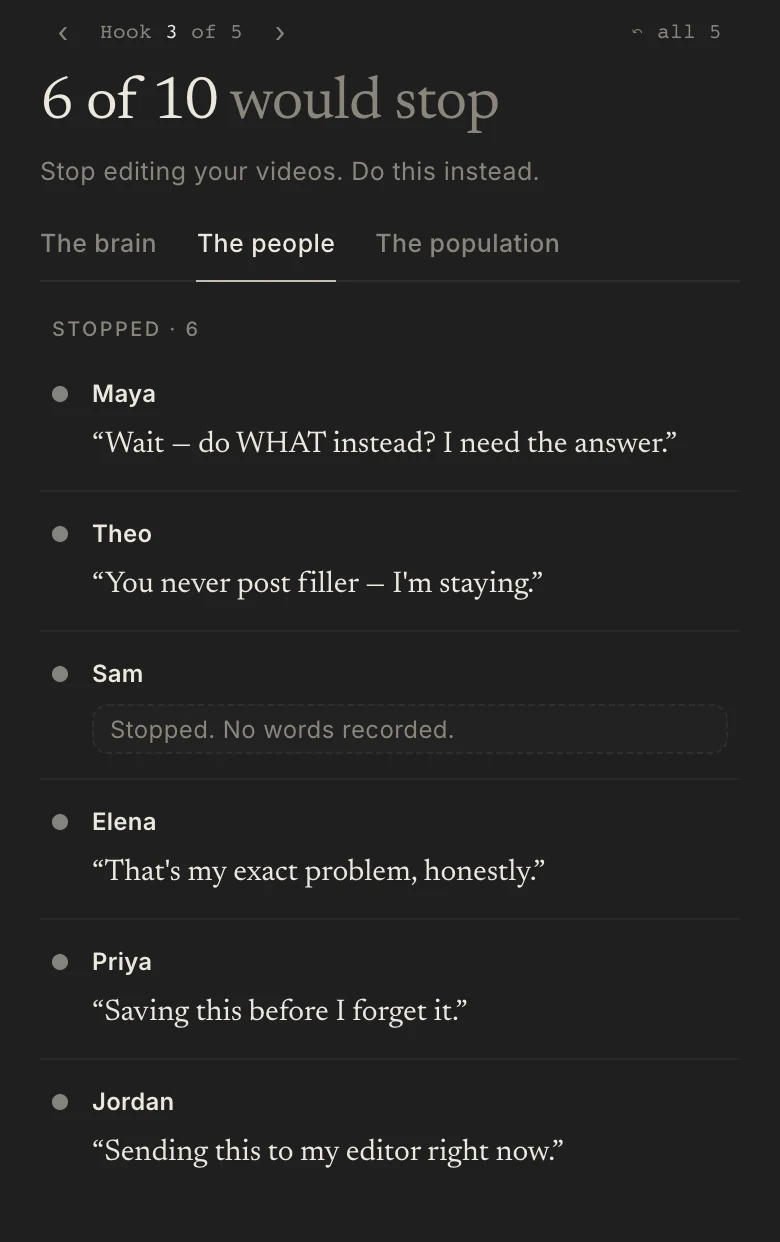
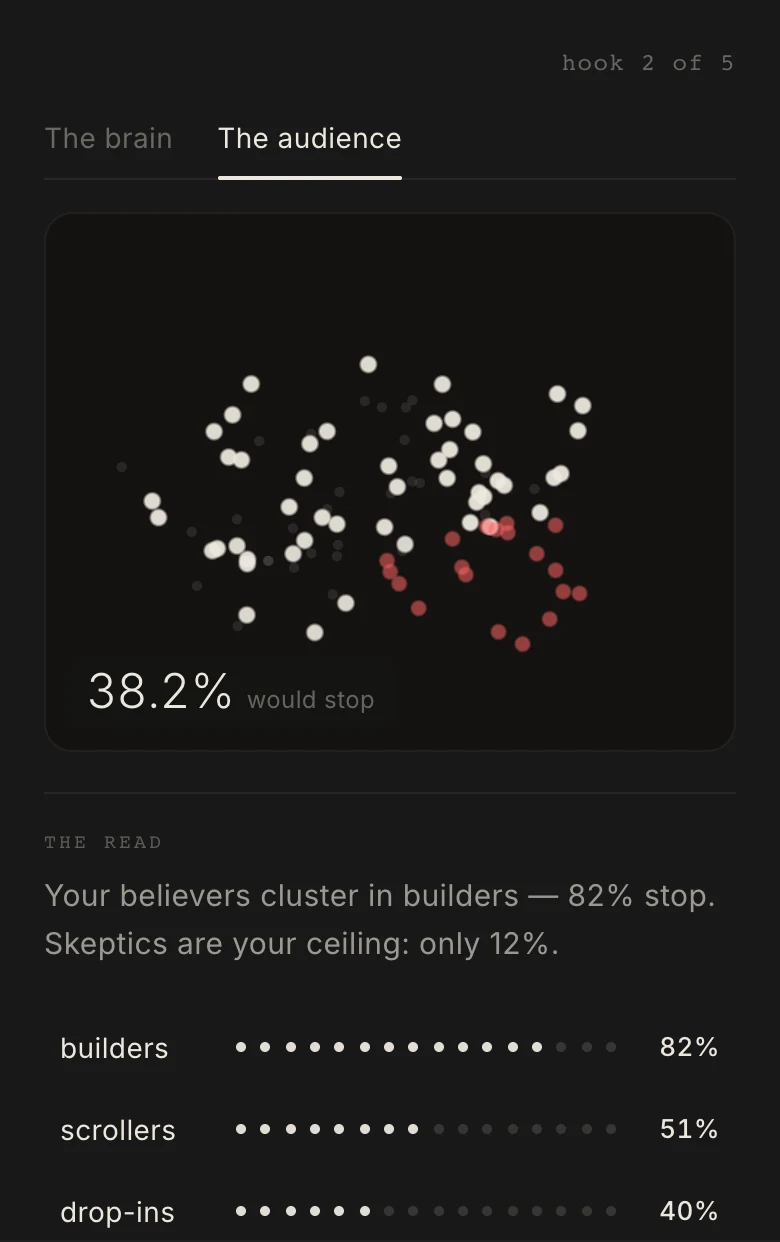
fix(offer): how-it-works photographs the CURRENT room — v2 read replaces the legacy AmbientRoom shot
The step-react stages still mounted the retired legacy AmbientRoom (owner
correction 2026-07-26: render the RUNNING app, not stale references). They now
mount the shipped AmbientDetail on CREATOR_TEMPLATE — audience tab, sheet
presentation in a bounded host — the same fixture the hero window's rail
renders, so shot and hero agree to the digit. Re-captured both webps (37/30 KB,
same intrinsic dims); PREPARE's 'The people' click removed (v2 opens on the
audience tab via initialTab). Step-02 body/caption + alt text rewritten to
describe the new pixels (38.2% would stop, cohort bars). room-fixture.ts is
now unreferenced — left on disk per the walkthrough precedent.

diff --git a/src/components/offer/shots/shot-stages.tsx b/src/components/offer/shots/shot-stages.tsx
@@ -21,15 +21,10 @@
 import { QueryClient, QueryClientProvider } from "@tanstack/react-query";
 import { useState } from "react";
 import { EmbeddedComposer } from "@/components/app/home/embedded-composer";
-import { AmbientRoom } from "@/components/audience-lens/AmbientRoom";
+import { AmbientDetail } from "@/components/audience-lens/v2/AmbientDetail";
+import { CREATOR_TEMPLATE } from "@/components/audience-lens/v2/detail-fixture";
 import { VideoTestCardRenderer } from "@/components/thread/video-test-card-block";
 import { TEST_CARD_FIXTURE } from "@/components/offer/test-card-fixture";
-import {
-  ROOM_CONCEPT,
-  ROOM_FRACTION,
-  ROOM_PERSONAS,
-  ROOM_SIBLINGS,
-} from "@/components/offer/room-fixture";
 
 /**
  * Where the card's "director's fixes" band starts, at the 620px stage width.
@@ -133,18 +128,19 @@ export function ShotStages() {
           <ComposerStage />
         </Stage>
 
-        {/* 02 — react: the shipped room, brain view, auto-playing its read */}
+        {/* 02 — react: the shipped v2 read, audience tab (owner correction
+            2026-07-26: the LEGACY AmbientRoom is a surface the platform no
+            longer shows — photograph the CURRENT drilled read instead). Same
+            fixture the hero window's rail renders, so the two agree to the
+            digit. Bounded flex host per the AmbientPanel pattern; sheet
+            presentation so the host owns ground + cap (no stray rail hairline
+            in a standalone shot). */}
         <Stage id="step-react" width={620} height={724}>
-          <div className="h-[724px]">
-            <AmbientRoom
-              flatPersonas={ROOM_PERSONAS}
-              conceptText={ROOM_CONCEPT}
-              fraction={ROOM_FRACTION}
-              kindLabel="Hook"
-              canRewrite={false}
-              focusId="h3"
-              initialCompareOpen={false}
-              siblings={ROOM_SIBLINGS}
+          <div className="flex h-[724px] flex-col overflow-hidden bg-[#181817]">
+            <AmbientDetail
+              template={CREATOR_TEMPLATE}
+              presentation="sheet"
+              initialTab="audience"
             />
           </div>
         </Stage>
@@ -179,16 +175,11 @@ export function ShotStages() {
         </Stage>
 
         <Stage id="step-react-sm" width={390} height={620}>
-          <div className="h-[620px]">
-            <AmbientRoom
-              flatPersonas={ROOM_PERSONAS}
-              conceptText={ROOM_CONCEPT}
-              fraction={ROOM_FRACTION}
-              kindLabel="Hook"
-              canRewrite={false}
-              focusId="h3"
-              initialCompareOpen={false}
-              siblings={ROOM_SIBLINGS}
+          <div className="flex h-[620px] flex-col overflow-hidden bg-[#181817]">
+            <AmbientDetail
+              template={CREATOR_TEMPLATE}
+              presentation="sheet"
+              initialTab="audience"
             />
           </div>
         </Stage>

diff --git a/scripts/capture-offer-shots.ts b/scripts/capture-offer-shots.ts
@@ -52,14 +52,11 @@ const SETTLE_MS: Record<string, number> = {
 
 /**
  * Some stages need a click first to reach the state the section wants to show.
- * The room, for instance, lands on the brain — which is already the hero's shot;
- * the "audience reacts" step wants the PEOPLE scale instead, so the two surfaces
- * on the page never photograph the same thing. Text is matched inside the stage.
+ * Text is matched inside the stage. Currently empty: the v2 read stage opens
+ * directly on the audience tab via `initialTab` (the legacy room needed a
+ * "The people" click; that surface is retired from the stages).
  */
-const PREPARE: Record<string, string[]> = {
-  "step-react": ["The people"],
-  "step-react-sm": ["The people"],
-};
+const PREPARE: Record<string, string[]> = {};
 
 async function main() {
   fs.mkdirSync(OUT_DIR, { recursive: true });

diff --git a/src/components/offer/sections/how-it-works.tsx b/src/components/offer/sections/how-it-works.tsx
@@ -40,13 +40,13 @@ const STEPS: readonly Step[] = [
     title: "A room of viewers watches it",
     body: (
       <>
-        A synthetic audience watches frame by frame and reacts in character — who stops, who
-        scrolls, and what each of them thought.
+        A synthetic audience watches frame by frame and reacts — who stops, who scrolls,
+        and where your believers cluster.
       </>
     ),
     shot: SHOTS.react,
     maxHeight: 520,
-    caption: "Six of ten stopped — with the words each viewer had, and the four who scrolled past.",
+    caption: "38.2% would stop — the read in one sentence, and how each cohort of viewers reacted.",
   },
   {
     n: "03",

diff --git a/src/components/offer/product-shot.tsx b/src/components/offer/product-shot.tsx
@@ -59,7 +59,7 @@ export const SHOTS = {
     src: "/images/offer/step-react.webp",
     width: 1240,
     height: 1450,
-    alt: "The simulated room: six named viewers who stopped, with what each one thought, and four who scrolled past",
+    alt: "The simulated audience read: 38.2% would stop, the room's verdict in a sentence, and how each cohort reacted — builders 82%, scrollers 51%, drop-ins 40%, skeptics 12%",
     mobile: { src: "/images/offer/step-react-sm.webp", width: 780, height: 1242 },
   },
   verdict: {
